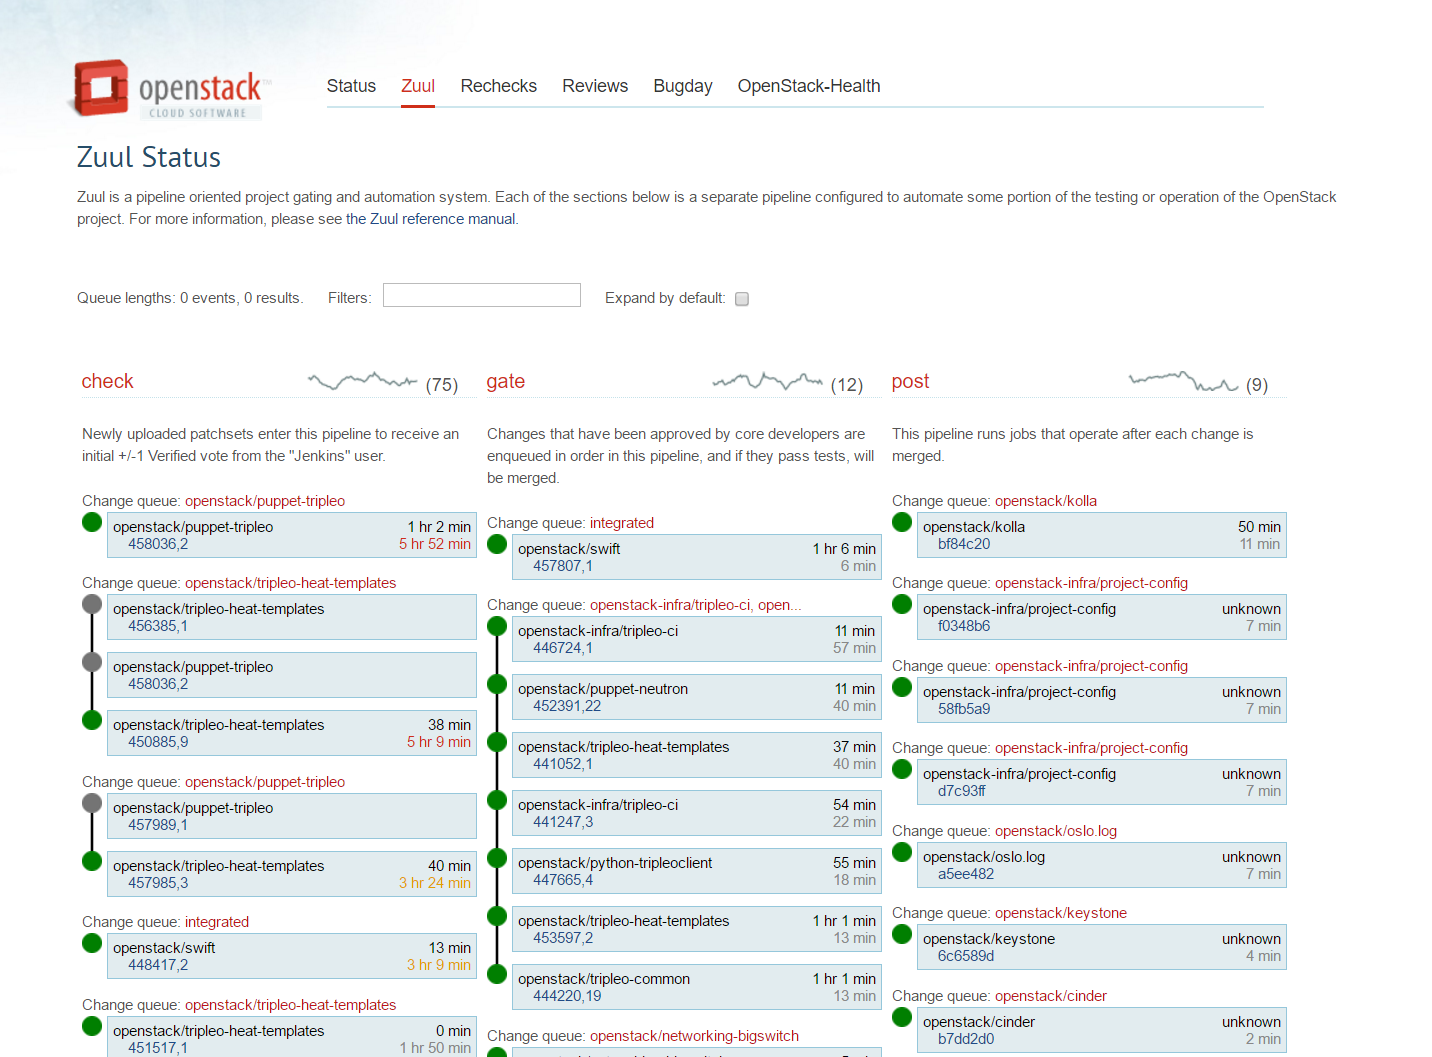
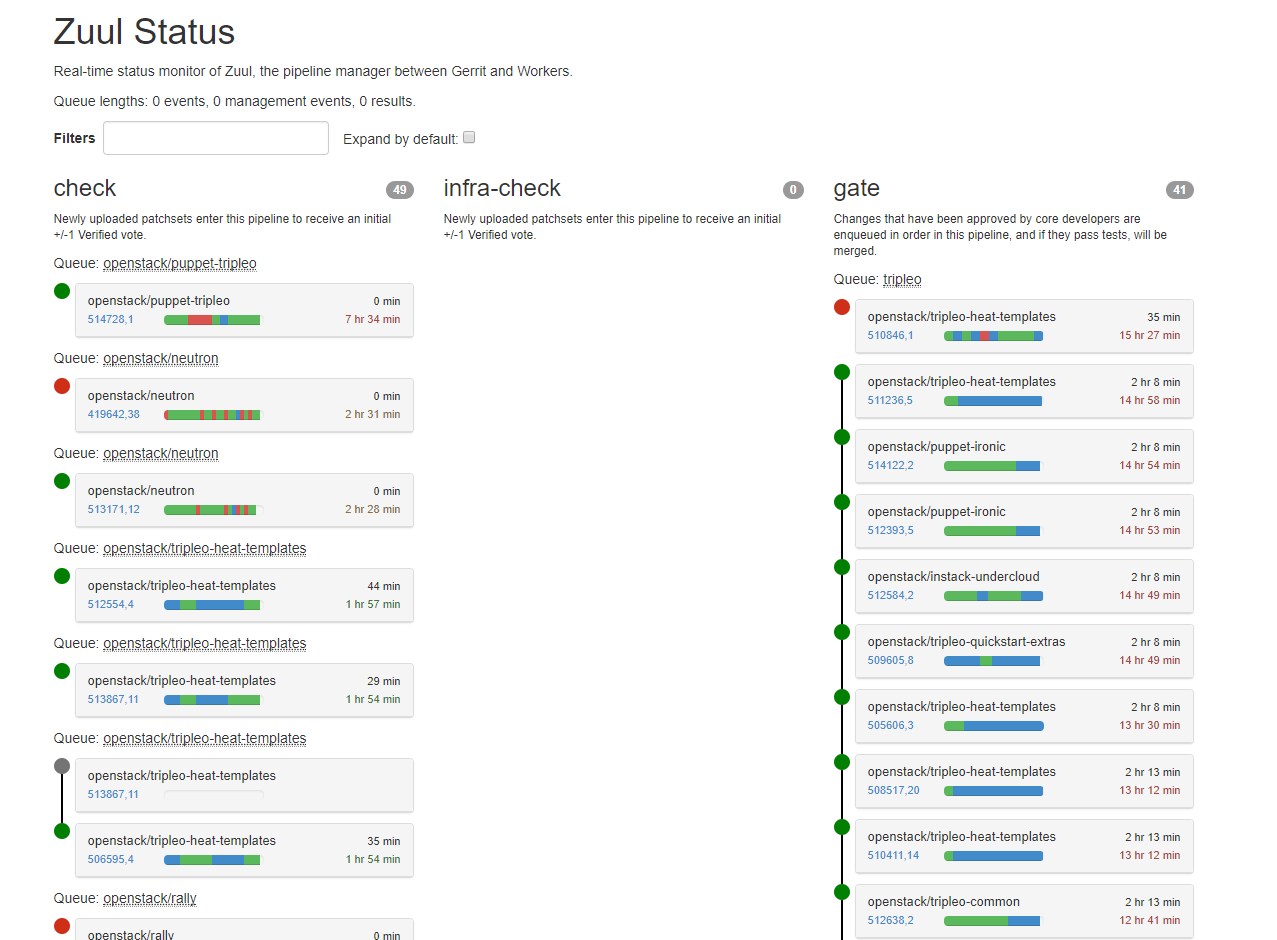
[upstream] update/improve content - Project Status and Zuul
Boston was the first time we presented a section on the
Project Status and Zuul pages.  Some of the content was
not well thought out or well organized.

This patch adds some more details with additional screen shots
that follow along the process of using the status page and
better explain elastic rechecks.

Changed region(s): [[0.0, 0.0, 0.9468, 1.0], [0.5192, 0.3394, 0.6413, 0.3702], [0.4276, 0.2777, 0.5192, 0.3085]]

diff --git a/doc/upstream-training/source/slides/workflow-project-status-and-zuul.rst b/doc/upstream-training/source/slides/workflow-project-status-and-zuul.rst
@@ -40,17 +40,29 @@ Zuul Pipelines
 - Check
 
   - Run against all newly updated patch sets
-  - Jenkins votes +1/-1 depending on test results
+  - Runs unit testing, Pep8, docs/releasenote build and
+    functional tempest testing
+  - Zuul votes +1/-1 depending on test results
 
 - Gate
 
   - Only run after a patch is approved by a core reviewer
   - More extensive testing than check pipeline
+  - Runs another unit test run along with additional tempest testing
   - 'Gates' code entering the stable or master branches
+
+Zuul Pipelines - cont.
+======================
 
 - Post
 
   - Jobs run against a patch after it merges
+  - Documentation build/publishing, tarball generation, image build
+
+.. note::
+
+  - The above jobs are examples of what is run in each pipeline.
+    What is actually run varies based upon the project being tested.
 
 Exercise
 ========
@@ -66,16 +78,38 @@ Exercise
 
 - Discuss your findings with your group
 
-Jenkins Failures
-================
+Patch Number
+============
 
-.. image:: ./_assets/workflow-project-status-and-zuul-jenkins-fail.png
+.. image:: ./_assets/workflow-project-status-and-zuul-patch-id.png
+  :class: image-pad-top
+
+.. note::
+
+  - The number next to 'Change' is the patch number.
+  - Can use the patch number to track status in Zuul status page.
+
+Filtering on Patch Number in Zuul
+=================================
+
+.. image:: ./_assets/workflow-project-status-and-zuul-zuul-job-status.png
+  :class: image-pad-top
+
+.. note::
+
+  - Shows the Zuul status page filtered down to just the patch of interest.
+
+
+Zuul Failures
+=============
+
+.. image:: ./_assets/workflow-project-status-and-zuul-zuul-fail.png
   :class: image-pad-top
 
 
 
-Analysing Jenkins Failures
-==========================
+Analysing Zuul Failures
+=======================
 - Logs may be accessed by clicking on the test's name
 
   - Directs the user to saved log output
@@ -83,14 +117,32 @@ Analysing Jenkins Failures
 
 - Voting and non-voting jobs
 
-  - Voting job failures cause a -1 vote from Jenkins on the patch
-  - Non-voting jobs do not cause a -1 vote from Jenkins upon failure
+  - Voting job failures cause a -1 vote from Zuul on the patch
+  - Non-voting jobs do not cause a -1 vote from Zuul upon failure
 
 - Non-voting jobs are new jobs that are being tested and may not yet be ready
   to vote
 
-Log Output
-==========
+Logs
+====
+
+.. image:: ./_assets/workflow-project-status-and-zuul-zuul-failure-log-list.png
+  :class: image-pad-top
+
+.. note::
+
+  - Example of what the logs for a run look like
+  - Actual log files will vary depending on the test you are examining
+
+Logs - Testr HTML Report
+========================
+
+.. image:: ./_assets/workflow-project-status-and-zuul-failure-testr-html.png
+  :class: image-pad-top
+
+
+Logs - Job Run Output
+=====================
 
 .. image:: ./_assets/workflow-project-status-and-zuul-failure-log.png
   :class: image-pad-top
@@ -102,6 +154,29 @@ Intermittent Failures
 - List of `Rechecks <http://status.openstack.org/elastic-recheck>`_
 - To trigger a re-run of check or gate add a comment to the patch
   in the form of 'recheck bug XXXXX'
+
+Recheck Example
+===============
+
+.. image:: ./_assets/workflow-project-status-and-zuul-recheck-example.png
+  :class: image-pad-top
+
+.. note::
+
+  - Note ability to see logstash and link to launchpad
+
+What Are Rechecks
+=================
+
+- Issues causing intermittent failures
+- Elastic search is used to look for logs indicating similar failures
+
+  - Users add new bugs to
+    `elastic-recheck <https://docs.openstack.org/infra/elastic-recheck/readme.html>`_
+
+- Goal is to capture all instances of a failure in the hopes of identifying
+  patterns causing the bug
+- Comments on patches that hit a known bug
 
 Exercise
 ========
